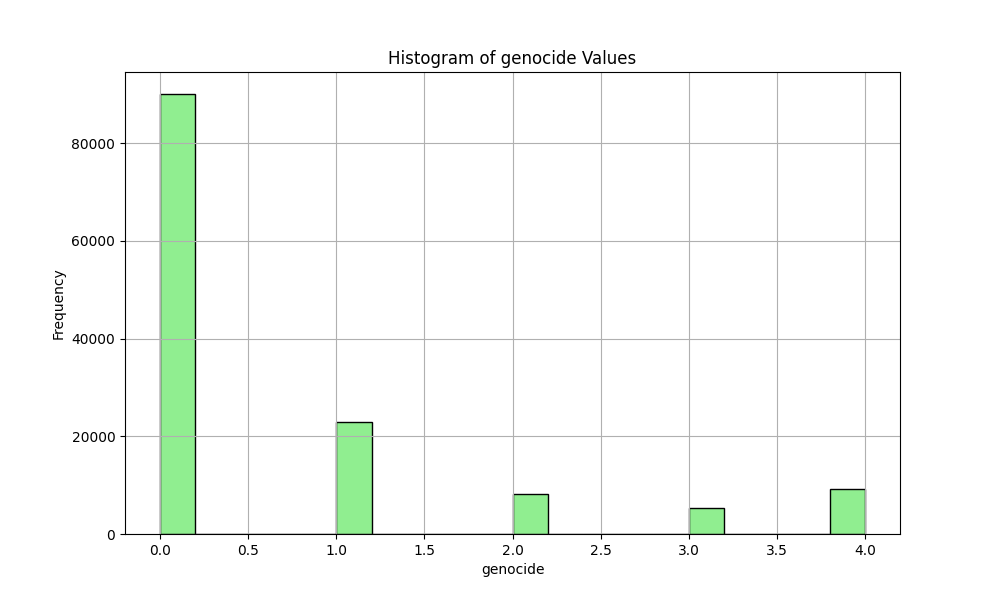
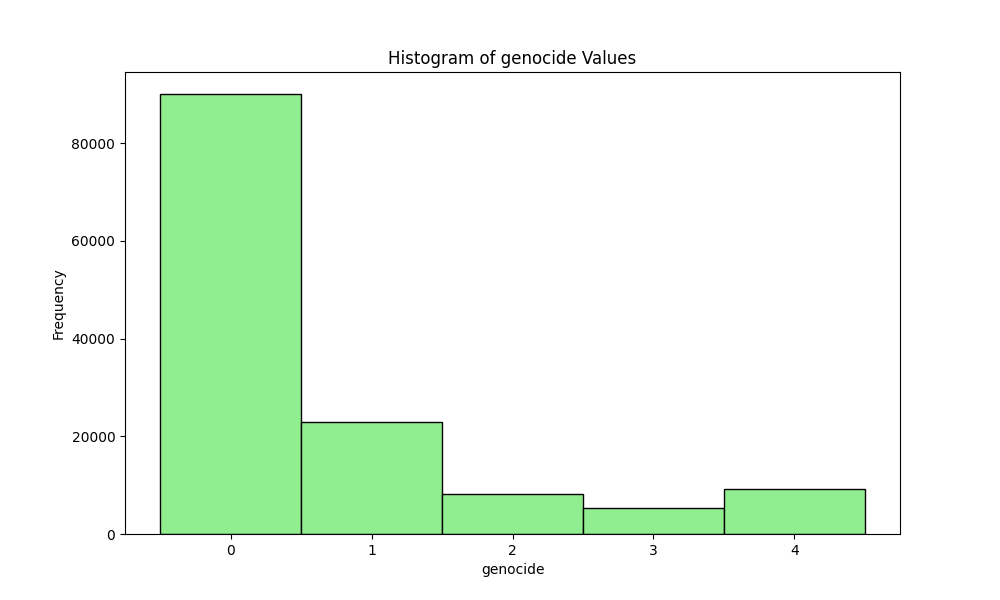
Fixed annotator demographics, added bar plots, updates the labels for the histograms

Changed region(s): [[0.186, 0.15, 0.341, 0.93], [0.372, 0.69, 0.837, 0.93], [0.155, 0.9, 0.186, 0.93]]

diff --git a/analysis.py b/analysis.py
@@ -32,16 +32,16 @@ distinct_labels = {col: df[col].nunique() for col in label_columns}
 # Histogram of label values
 for column in label_columns:
     plt.figure(figsize=(10, 6))
-    df[column].hist(bins=20, color='lightgreen', edgecolor='black')
+    df[column].plot(kind='hist', bins=[-0.5, 0.5, 1.5, 2.5, 3.5, 4.5], color='lightgreen', edgecolor='black')
     plt.title(f'Histogram of {column} Values')
     plt.xlabel(f'{column}')
     plt.ylabel('Frequency')
     plt.savefig(f'images/{column}_histogram.png')
     plt.close()
 
-# Demographic features for annotators
+# Demographic features for annotators (unique values)
 demographic_columns = ['annotator_gender', 'annotator_educ', 'annotator_income', 'annotator_ideology']
-demographic_stats = {col: df[col].value_counts().to_dict() for col in demographic_columns}
+demographic_stats = {col: df.drop_duplicates(subset=['annotator_id'])[col].value_counts().to_dict() for col in demographic_columns}
 
 # Save analysis results to a text file
 with open('analysis_results.txt', 'w') as f:
@@ -58,3 +58,15 @@ with open('analysis_results.txt', 'w') as f:
         for category, count in stats.items():
             f.write(f"  {category}: {count}\n")
         f.write("\n")
+
+# Plot demographic features
+for column, stats in demographic_stats.items():
+    plt.figure(figsize=(10, 6))
+    plt.bar(stats.keys(), stats.values(), color='skyblue', edgecolor='black')
+    plt.title(f'Demographic Distribution: {column}')
+    plt.xlabel(column)
+    plt.ylabel('Count')
+    plt.xticks(rotation=45)
+    plt.tight_layout()
+    plt.savefig(f'images/{column}_distribution.png')
+    plt.close()

diff --git a/README.md b/README.md
@@ -19,17 +19,17 @@ The histogram above shows the distribution of annotations per annotator.
 
 ### Label Analysis
 
-The dataset contains multiple labels representing different aspects of hate speech. Here are the distinct labels and their possible values:
+The dataset contains multiple labels representing different aspects of hate speech. Here are the distinct labels and their counts:
 
-- **Sentiment:** 1-5
-- **Respect:** 1-5
-- **Insult:** 1-5
-- **Humiliate:** 1-5
-- **Status:** 1-5
-- **Dehumanize:** 1-5
-- **Violence:** 1-5
-- **Genocide:** 1-5
-- **Attack/Defend:** 1-5
+- **Sentiment:** 0-4
+- **Respect:** 0-4
+- **Insult:** 0-4
+- **Humiliate:** 0-4
+- **Status:** 0-4
+- **Dehumanize:** 0-4
+- **Violence:** 0-4
+- **Genocide:** 0-4
+- **Attack/Defend:** 0-4
 
 These labels are continuous numerical values. Here are the histograms for each label:
 
@@ -45,40 +45,18 @@ These labels are continuous numerical values. Here are the histograms for each l
 
 ### Annotator Demographics
 
-The dataset includes demographic information for annotators. Below are the counts for each category:
+The dataset includes demographic information for annotators. Below are the distributions:
 
-- **Annotator Gender:**
-  - Female: 76370
-  - Male: 57582
-  - Non-binary: 985
-  - Prefer not to say: 500
-  - Self-describe: 119
+#### Annotator Gender
+![Annotator Gender Distribution](images/annotator_gender_distribution.png)
 
-- **Annotator Education:**
-  - College Grad (BA): 50206
-  - Some College: 35115
-  - College Grad (AA): 18011
-  - High School Grad: 14138
-  - Masters: 12593
-  - Professional Degree: 3042
-  - PhD: 1562
-  - Some High School: 872
+#### Annotator Education
+![Annotator Education Distribution](images/annotator_educ_distribution.png)
 
-- **Annotator Income:**
-  - $10k-$50k: 56668
-  - $50k-$100k: 52803
-  - $100k-$200k: 17415
-  - <$10k: 6429
-  - \>$200k: 2138
+#### Annotator Income
+![Annotator Income Distribution](images/annotator_income_distribution.png)
 
-- **Annotator Ideology:**
-  - Liberal: 33812
-  - Neutral: 23112
-  - Slightly Liberal: 21333
-  - Extremely Liberal: 17944
-  - Conservative: 15628
-  - Slightly Conservative: 15101
-  - Extremely Conservative: 4544
-  - No Opinion: 4055
+#### Annotator Ideology
+![Annotator Ideology Distribution](images/annotator_ideology_distribution.png)
 
 Please refer to `analysis_results.txt` for more detailed demographic statistics.
